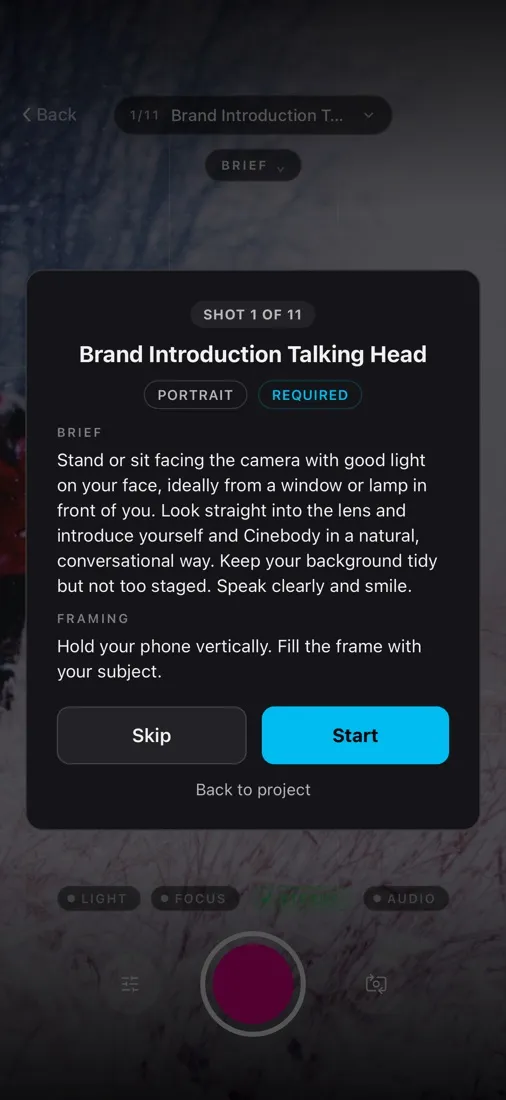
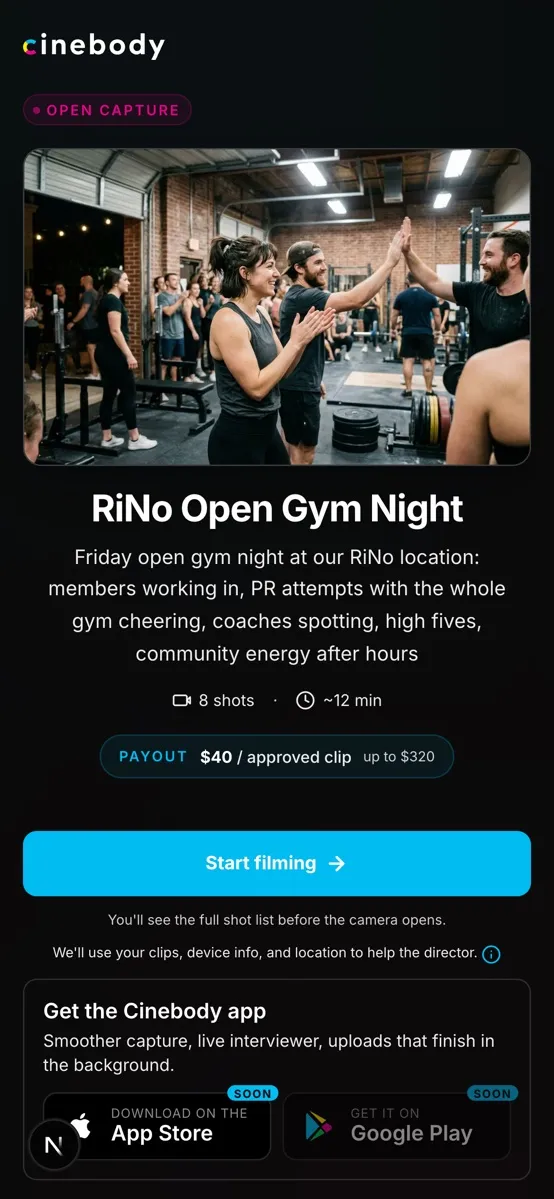
blog(hold): B-roll screens from site product UI (img04 + phone-filmer)

diff --git a/site/src/content/blog/the-ultimate-guide-to-capturing-b-roll.md b/site/src/content/blog/the-ultimate-guide-to-capturing-b-roll.md
@@ -10,7 +10,7 @@ cardImage: "/blog/the-ultimate-guide-to-capturing-b-roll/card.webp"
 <p>B-roll is the supporting footage. Wide shots that place you. Close-ups that land a detail. Action that keeps the cut moving while someone talks. Without it, interviews sit on one face and events feel like a single angle.</p>
 <p>You do not need a crew on site to get cutaways an editor will keep. You need a short list of asks, a few filmable checks, and enough takes that the edit has options.</p>
 <figure>
-<img src="/blog/the-ultimate-guide-to-capturing-b-roll/img-hud.webp" alt="Native app camera viewfinder with grid and CueDots for light, focus, steady, and audio" />
+<img src="/blog/the-ultimate-guide-to-capturing-b-roll/img-hud.webp" alt="Native app camera with AI Director coaching and CueDots for light, focus, steady, and audio" />
 </figure>
 <h2>Know what the edit needs</h2>
 <p>Before you roll, write down what the story is missing. Not “capture the vibe.” Concrete asks.</p>
@@ -18,7 +18,7 @@ cardImage: "/blog/the-ultimate-guide-to-capturing-b-roll/card.webp"
 <p>Brief remote filmers in home language. “Establishing shot” lands better as “stand across the street and hold for five seconds, then walk toward the door.” Most important clips first. Keep the list short enough that a festival or office day does not feel like homework.</p>
 <p>A Guided shot list can open a brief card before the camera. Open shots keep the brief collapsible so you can peek and roll. Orientation lock and quality settings are context for the take, not a second coaching screen.</p>
 <figure>
-<img src="/blog/the-ultimate-guide-to-capturing-b-roll/img-brief.webp" alt="Brief card over the camera before starting a Guided B-roll shot" />
+<img src="/blog/the-ultimate-guide-to-capturing-b-roll/img-brief.webp" alt="Filmer brief for a project: shot count, time, and Start filming" />
 </figure>
 <h2>Light, frame, steady</h2>
 <p>These three decide whether a clip survives the first scrub.</p>
